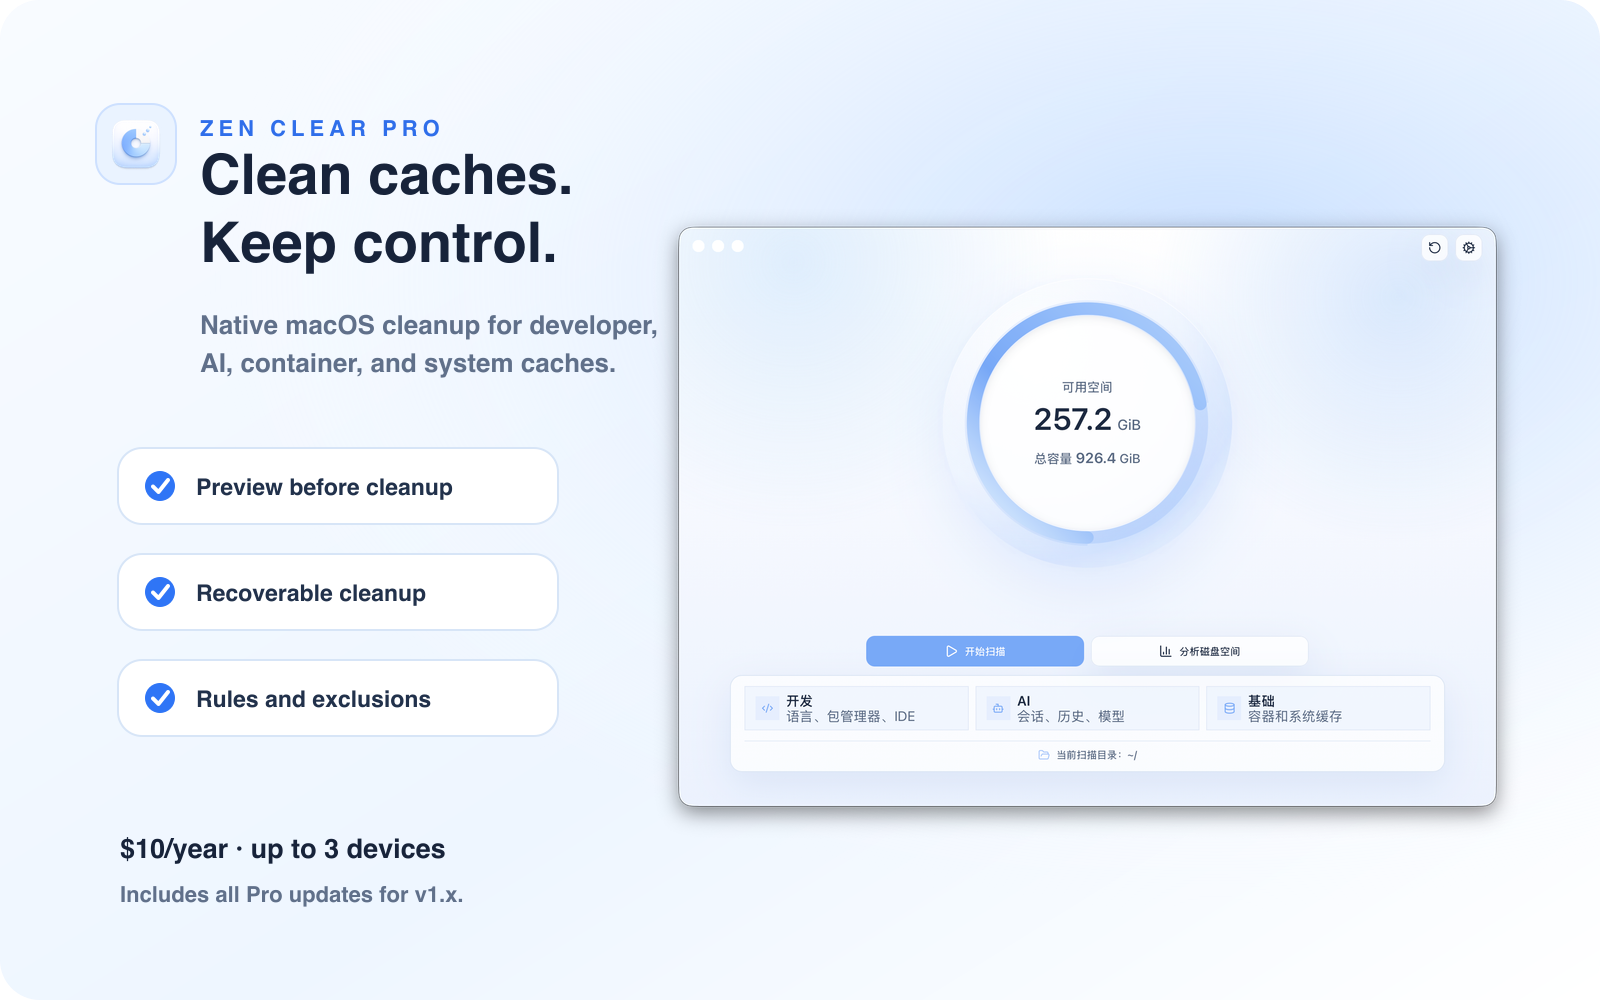
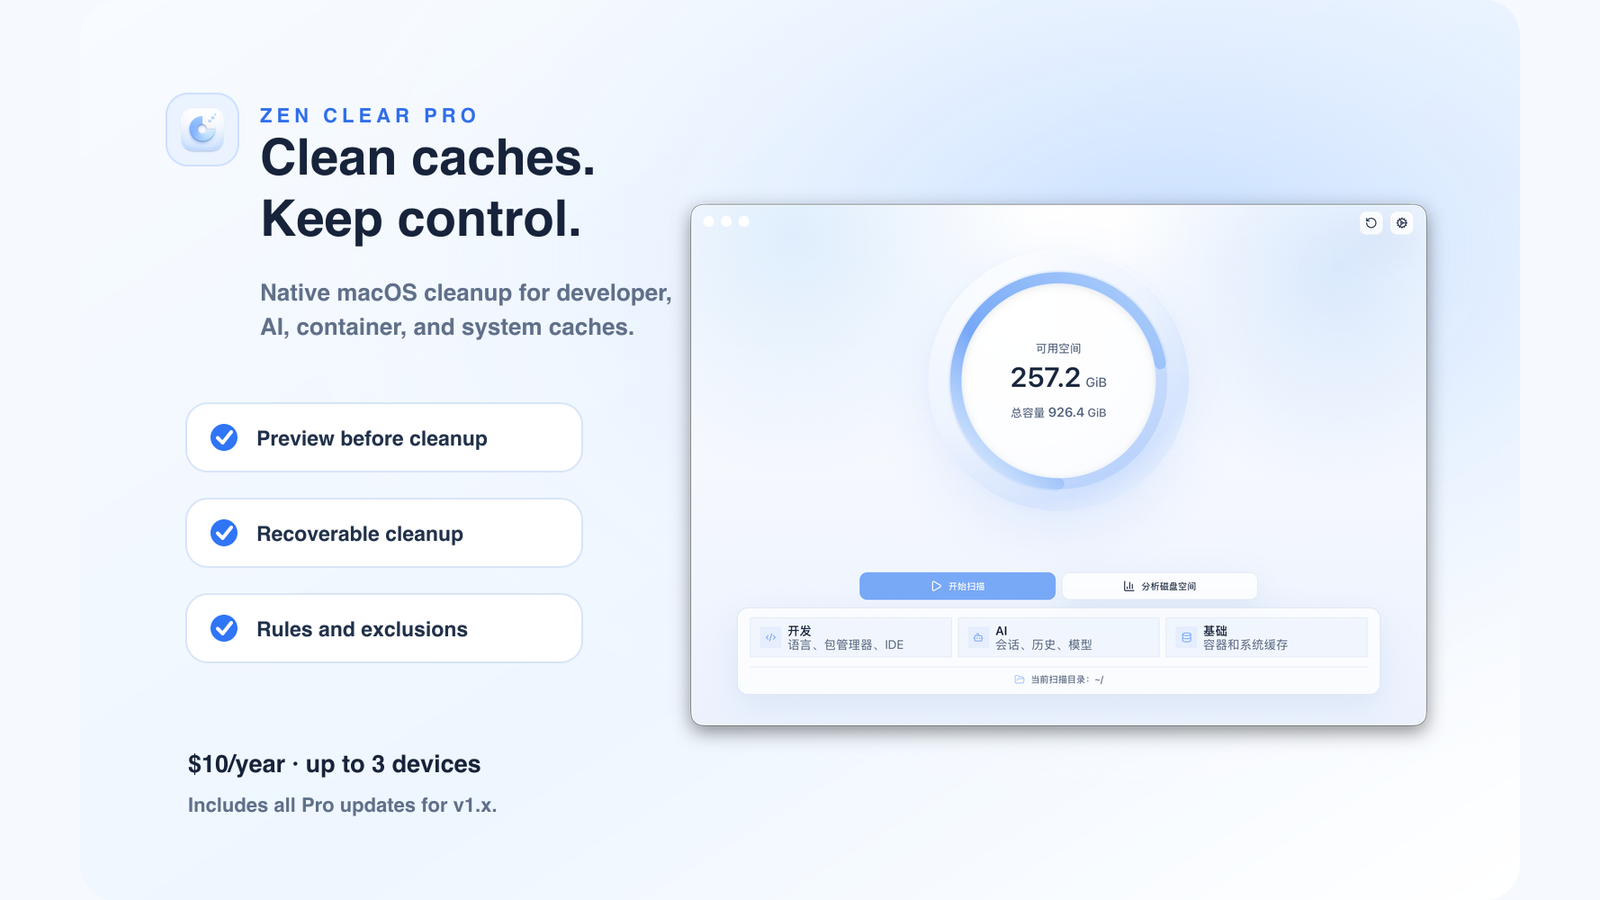
feat(site): add checkout policy pages

diff --git a/src/styles/global.css b/src/styles/global.css
@@ -120,6 +120,67 @@ img {
   margin: 0;
 }
 
+.footer-links {
+  display: flex;
+  flex-wrap: wrap;
+  align-items: center;
+  gap: 14px;
+  font-size: 0.92rem;
+  font-weight: 700;
+}
+
+.footer-links a {
+  color: var(--charcoal);
+}
+
+.footer-links a:hover {
+  color: var(--brand);
+}
+
+.legal-page {
+  min-height: calc(100svh - 154px);
+  padding: clamp(44px, 8vw, 92px) clamp(20px, 5vw, 72px);
+}
+
+.legal-document {
+  max-width: 820px;
+  margin: 0 auto;
+}
+
+.legal-document h1 {
+  margin: 0;
+  color: var(--charcoal);
+  font-size: clamp(2.6rem, 8vw, 5.6rem);
+  line-height: 0.95;
+  letter-spacing: 0;
+}
+
+.legal-document h2 {
+  margin: 42px 0 12px;
+  color: var(--charcoal);
+  font-size: clamp(1.25rem, 2.4vw, 1.75rem);
+  line-height: 1.18;
+  letter-spacing: 0;
+}
+
+.legal-document p {
+  margin: 16px 0 0;
+  color: var(--muted);
+  font-size: 1.04rem;
+}
+
+.legal-document a {
+  color: var(--brand);
+  font-weight: 700;
+  text-decoration: underline;
+  text-underline-offset: 3px;
+}
+
+.legal-updated {
+  color: var(--muted);
+  font-weight: 700;
+}
+
 .eyebrow {
   margin: 0 0 16px;
   color: var(--accent);